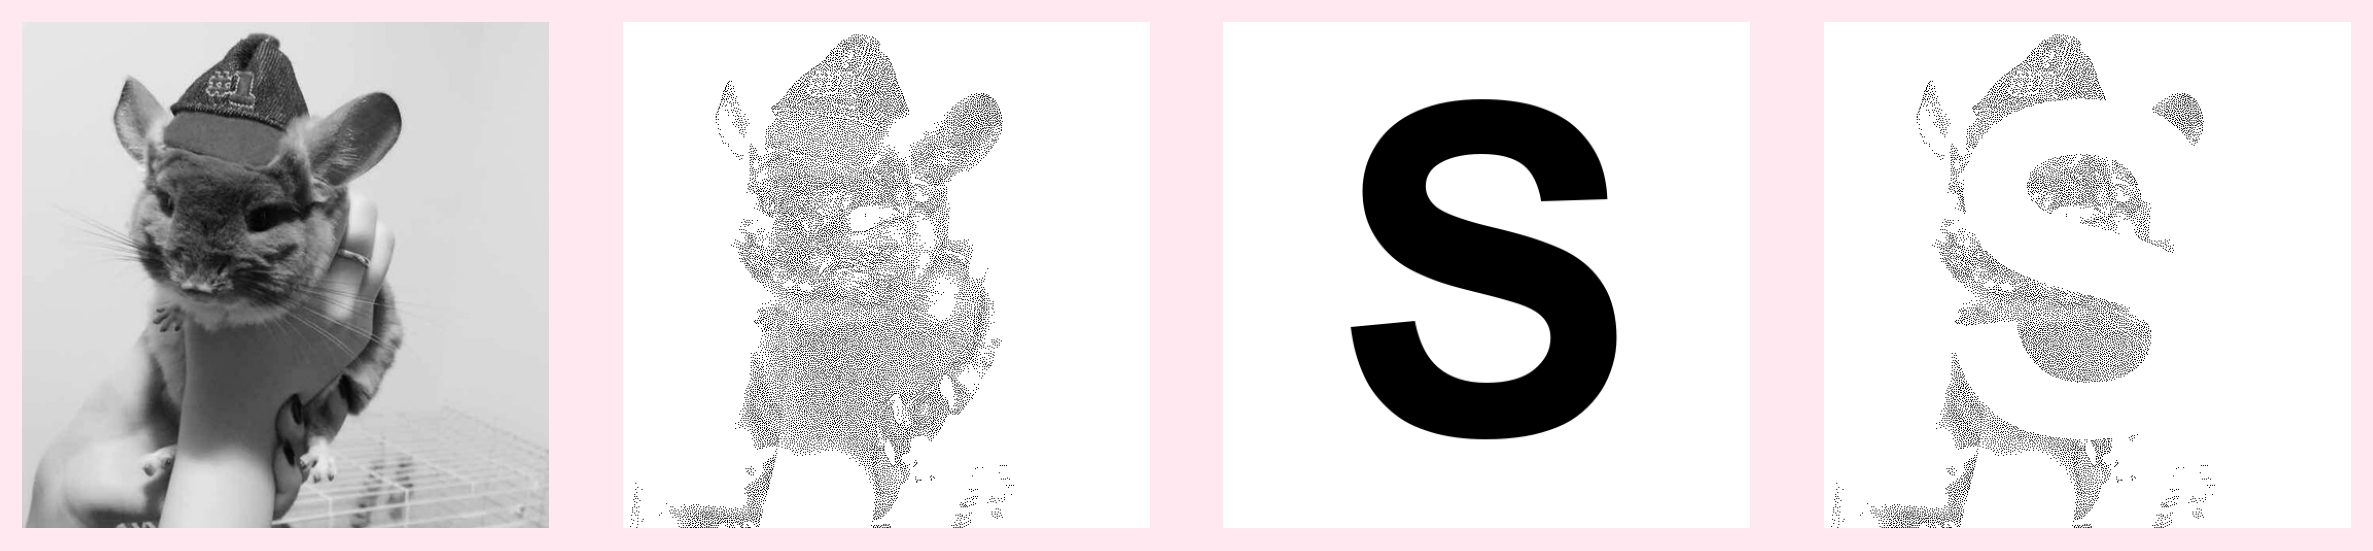
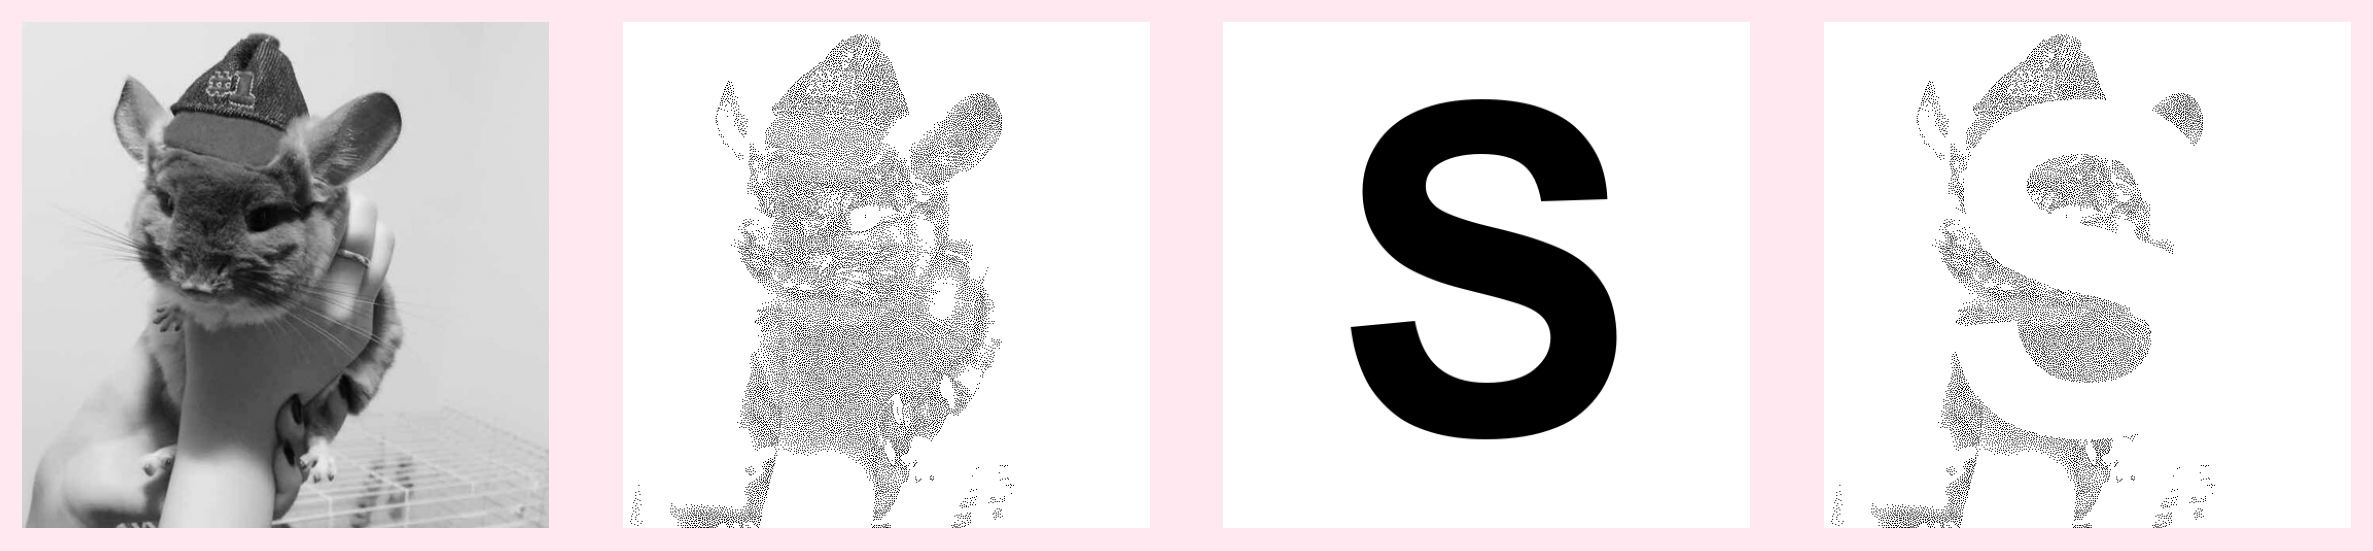
DDD

diff --git a/index.html b/index.html
@@ -64,6 +64,9 @@ ul.task-list li input[type="checkbox"] {
 </header>
 
 
+<p>This walkthrough builds a small <strong>selection bias</strong> meme from a single photo: prepare the image, turn it into a stippled “your model” view, summarize tone in a grid, draw an <strong>S</strong> for systematic missingness, mask the stipple through that shape, and assemble the four-panel punchline. Each step below shows one stage of that pipeline.</p>
+<section id="step-1-prepare-the-image" class="level2">
+<h2 class="anchored" data-anchor-id="step-1-prepare-the-image">Step 1: Prepare the image</h2>
 <div id="cell-step1-prepare" class="cell" data-fig-show="false" data-message="false" data-execution_count="1">
 <div class="cell-output cell-output-display">
 <div id="step1-prepare" class="quarto-figure quarto-figure-center anchored">
@@ -74,6 +77,9 @@ ul.task-list li input[type="checkbox"] {
 </div>
 </div>
 </div>
+</section>
+<section id="step-2-stipple-the-image" class="level2">
+<h2 class="anchored" data-anchor-id="step-2-stipple-the-image">Step 2: Stipple the image</h2>
 <div id="cell-step2-stipple" class="cell" data-fig-show="false" data-message="false" data-execution_count="2">
 <div class="cell-output cell-output-display">
 <div id="step2-stipple" class="quarto-figure quarto-figure-center anchored">
@@ -84,16 +90,35 @@ ul.task-list li input[type="checkbox"] {
 </div>
 </div>
 </div>
+</section>
+<section id="step-3-box-averaged-tonal-analysis" class="level2">
+<h2 class="anchored" data-anchor-id="step-3-box-averaged-tonal-analysis">Step 3: Box-averaged tonal analysis</h2>
+<div id="cell-step3-tonal" class="cell" data-fig-show="false" data-execution_count="3">
+<div class="cell-output cell-output-display">
+<div id="step3-tonal" class="quarto-figure quarto-figure-center anchored">
+<figure class="figure">
+<p><img src="index_files/figure-html/step3-tonal-output-1.png" width="459" height="470" class="figure-img"></p>
+<figcaption>Box-averaged tonal analysis showing brightness distribution</figcaption>
+</figure>
+</div>
+</div>
+</div>
+</section>
+<section id="step-4-block-letter-systematic-missingness" class="level2">
+<h2 class="anchored" data-anchor-id="step-4-block-letter-systematic-missingness">Step 4: Block letter (systematic missingness)</h2>
 <div id="cell-step4-block-letter" class="cell" data-fig-show="false" data-execution_count="4">
 <div class="cell-output cell-output-display">
 <div id="step4-block-letter" class="quarto-figure quarto-figure-center anchored">
 <figure class="figure">
-<p><img src="index_files/figure-html/step4-block-letter-output-1.png" width="489" height="470" class="figure-img"></p>
+<p><img src="index_files/figure-html/step4-block-letter-output-1.png" width="459" height="470" class="figure-img"></p>
 <figcaption>Block letter S representing selection bias</figcaption>
 </figure>
 </div>
 </div>
 </div>
+</section>
+<section id="step-5-masked-stipple-estimate" class="level2">
+<h2 class="anchored" data-anchor-id="step-5-masked-stipple-estimate">Step 5: Masked stipple (estimate)</h2>
 <div id="cell-step5-masked" class="cell" data-fig-show="false" data-execution_count="5">
 <div class="cell-output cell-output-display">
 <div id="step5-masked" class="quarto-figure quarto-figure-center anchored">
@@ -104,6 +129,9 @@ ul.task-list li input[type="checkbox"] {
 </div>
 </div>
 </div>
+</section>
+<section id="final-meme" class="level2">
+<h2 class="anchored" data-anchor-id="final-meme">Final meme</h2>
 <div id="cell-create-final-meme" class="cell" data-fig-show="false" data-message="false" data-execution_count="6">
 <div class="cell-output cell-output-display">
 <div id="create-final-meme" class="quarto-figure quarto-figure-center anchored">
@@ -114,7 +142,8 @@ ul.task-list li input[type="checkbox"] {
 </div>
 </div>
 </div>
-<p>The four panels contrast the full scene (<strong>Reality</strong>) with a dot-based stand-in for your data (<strong>Your Model</strong>). The <strong>S</strong> marks <em>systematic</em> missingness—observations drop out along a fixed pattern, not at random—so the last panel (<strong>Estimate</strong>) no longer matches the population you started from. That is selection bias: when who or what enters the sample follows a rule, conclusions can be systematically wrong for the group you intended to describe.</p>
+<p>The four panels contrast the full scene (<strong>Reality</strong>) with a dot-based stand-in for your data (<strong>Your Model</strong>). The <strong>S</strong> marks <em>systematic</em> missingness—observations drop out along a fixed pattern, not at random, so the last panel (<strong>Estimate</strong>) no longer matches the population you started from. That is selection bias: when who or what enters the sample follows a rule, conclusions can be systematically wrong for the group you intended to describe.</p>
+</section>
 
 </main>
 <!-- /main column -->

diff --git a/stippling_functions.py b/stippling_functions.py
@@ -39,6 +39,47 @@ def toroidal_gaussian_kernel(h: int, w: int, sigma: float):
     return kern
 
 
+def _toroidal_splat_grids(
+    h: int, w: int, kernel: np.ndarray, radius: int
+) -> tuple[np.ndarray, np.ndarray, np.ndarray]:
+    """
+    Build offset grids and per-offset Gaussian weights for truncated toroidal splats.
+
+    Weight at offset (dy, dx) equals ``kernel[(dy + h) % h, (dx + w) % w]`` and does
+    not depend on splat center, so it is computed once.
+    """
+    r = int(min(radius, h - 1, w - 1))
+    dy_grid, dx_grid = np.meshgrid(
+        np.arange(-r, r + 1, dtype=np.int32),
+        np.arange(-r, r + 1, dtype=np.int32),
+        indexing="ij",
+    )
+    ki = (dy_grid.astype(np.int64, copy=False) + h) % h
+    kj = (dx_grid.astype(np.int64, copy=False) + w) % w
+    splat_w = kernel[ki, kj].astype(np.float64, copy=False)
+    return dy_grid.astype(np.int64, copy=False), dx_grid.astype(np.int64, copy=False), splat_w
+
+
+def _toroidal_splat_add_inplace(
+    energy: np.ndarray,
+    y0: int,
+    x0: int,
+    h: int,
+    w: int,
+    dy_grid: np.ndarray,
+    dx_grid: np.ndarray,
+    splat_w: np.ndarray,
+    yy: np.ndarray,
+    xx: np.ndarray,
+) -> None:
+    """Add a truncated toroidal Gaussian splat centered at (y0, x0) into energy."""
+    np.add(y0, dy_grid, out=yy, casting="unsafe")
+    np.mod(yy, h, out=yy)
+    np.add(x0, dx_grid, out=xx, casting="unsafe")
+    np.mod(xx, w, out=xx)
+    energy[yy, xx] += splat_w
+
+
 def void_and_cluster(
     input_img: np.ndarray,
     percentage: float = 0.08,
@@ -91,20 +132,32 @@ def void_and_cluster(
     # Create toroidal Gaussian kernel for repulsion
     kernel = toroidal_gaussian_kernel(h, w, sigma)
 
+    # Truncation radius: splat energy outside this ring is negligible vs float32 noise
+    splat_radius = int(
+        min(
+            h - 1,
+            w - 1,
+            max(4, int(np.ceil(6.0 * float(sigma)))),
+        )
+    )
+    dy_grid, dx_grid, splat_w = _toroidal_splat_grids(h, w, kernel, splat_radius)
+    yy_buf = np.empty_like(dy_grid, dtype=np.int64)
+    xx_buf = np.empty_like(dx_grid, dtype=np.int64)
+
     # Initialize energy field: lower energy → more likely to be picked
-    energy_current = -importance * content_bias
+    energy_current = (-importance * content_bias).astype(np.float64, copy=False)
 
     # Stipple buffer: start with white background; selected points become black dots
     final_stipple = np.ones_like(I)
     samples = []
 
-    # Helper function to roll kernel to an arbitrary position
-    def energy_splat(y, x):
-        """Get energy contribution by rolling the kernel to position (y, x)."""
-        return np.roll(np.roll(kernel, shift=y, axis=0), shift=x, axis=1)
-
     # Number of points to select
     num_points = int(I.size * percentage)
+
+    # Preallocate scratch buffers (avoids allocating full H×W arrays each iteration)
+    noise = np.empty((h, w), dtype=np.float64)
+    energy_for_argmin = np.empty((h, w), dtype=np.float64)
+    rng = np.random.default_rng()
 
     # Choose first point near center with minimal energy
     cy, cx = h // 2, w // 2
@@ -117,25 +170,32 @@ def void_and_cluster(
     x0 = flat % (region.shape[1]) + (cx - r)
 
     # Place first point
-    energy_current = energy_current + energy_splat(y0, x0)
+    _toroidal_splat_add_inplace(
+        energy_current, y0, x0, h, w, dy_grid, dx_grid, splat_w, yy_buf, xx_buf
+    )
     energy_current[y0, x0] = np.inf  # Prevent reselection
     samples.append((y0, x0, I[y0, x0]))
     final_stipple[y0, x0] = 0.0  # Black dot
+
+    scale_base = noise_scale_factor * content_bias
 
     # Iteratively place remaining points
     for i in range(1, num_points):
         # Add exploration noise that decreases over time
         exploration = 1.0 - (i / num_points) * 0.5  # Decrease from 1.0 to 0.5
-        noise = np.random.normal(0.0, noise_scale_factor * content_bias * exploration, size=energy_current.shape)
-        energy_with_noise = energy_current + noise
+        rng.standard_normal(out=noise)
+        np.multiply(noise, scale_base * exploration, out=noise)
+        np.add(energy_current, noise, out=energy_for_argmin)
 
         # Find position with minimum energy (with noise for exploration)
-        pos_flat = np.argmin(energy_with_noise)
+        pos_flat = int(np.argmin(energy_for_argmin))
         y = pos_flat // w
         x = pos_flat % w
 
         # Add Gaussian splat to prevent nearby points from being selected
-        energy_current = energy_current + energy_splat(y, x)
+        _toroidal_splat_add_inplace(
+            energy_current, y, x, h, w, dy_grid, dx_grid, splat_w, yy_buf, xx_buf
+        )
         energy_current[y, x] = np.inf  # Prevent reselection
 
         # Record the sample
